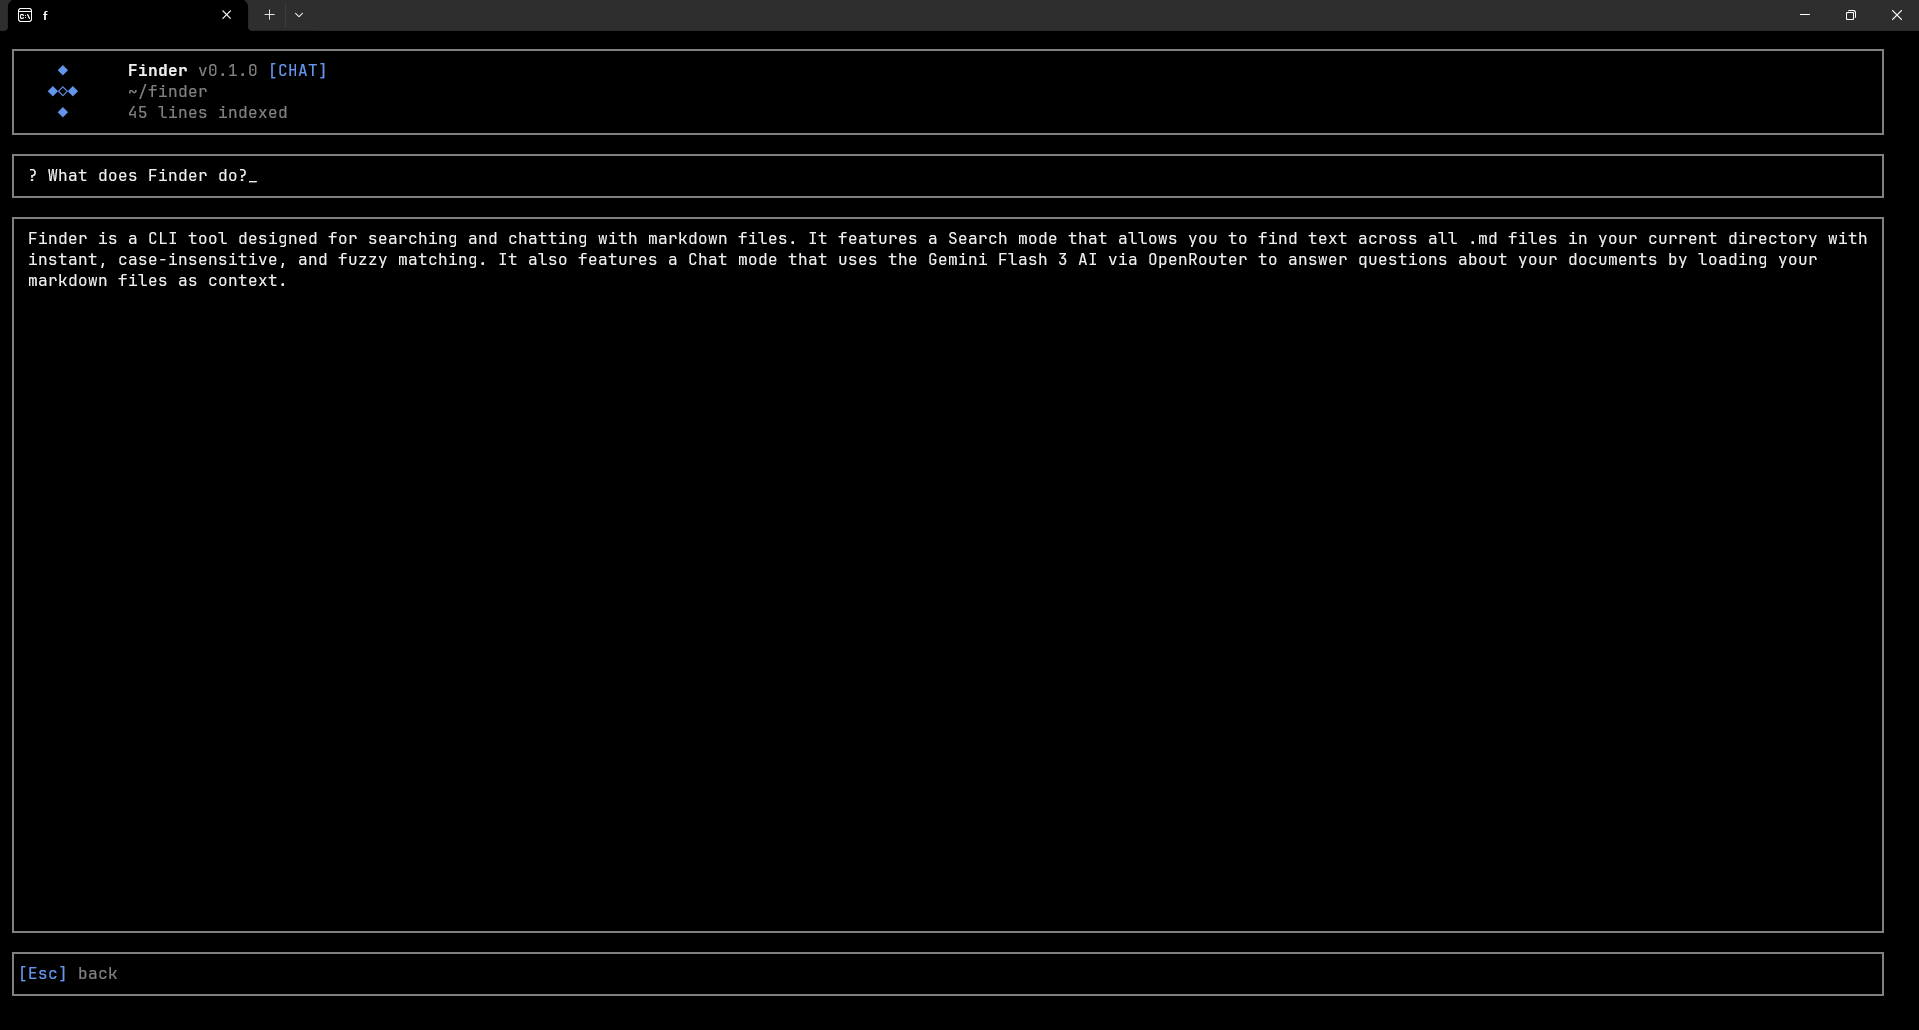
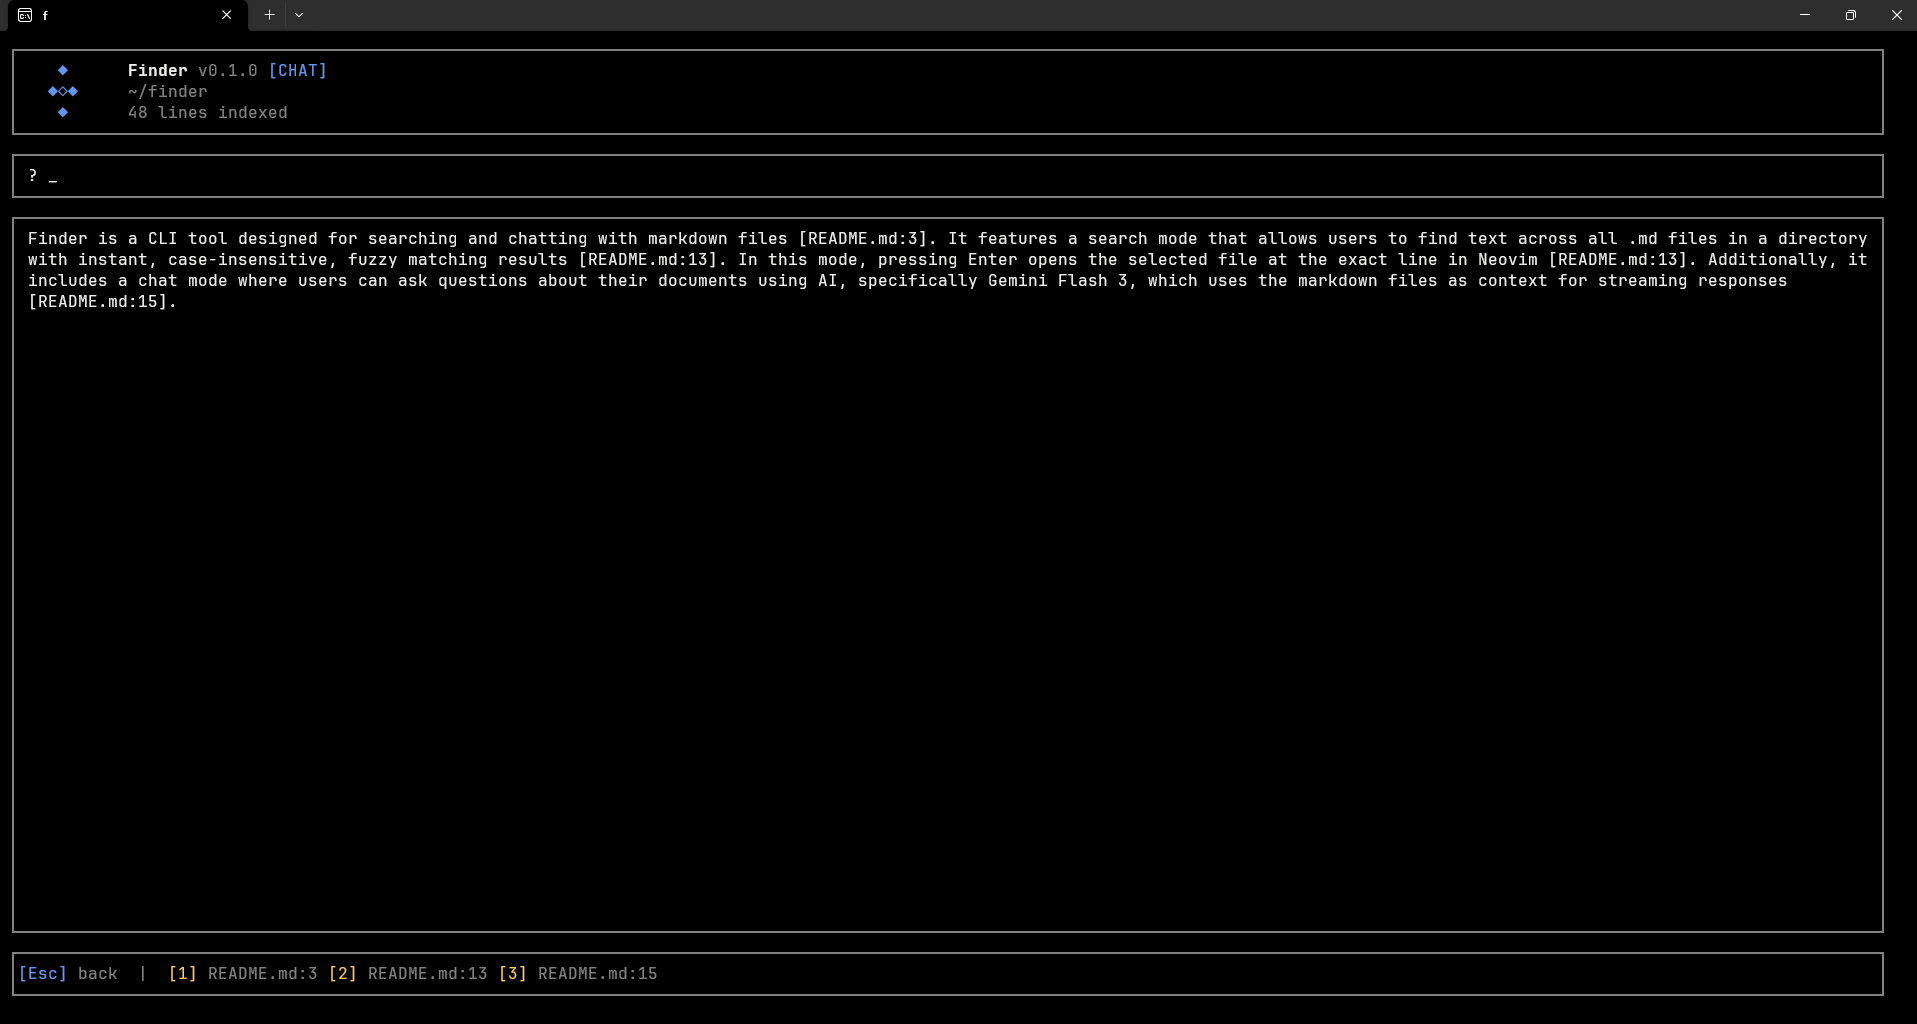
feat: add highlight, preview pane, and chat citations
- Highlight matched characters in search results (yellow)
- Split view with live preview pane showing file content
- Chat responses include citations [file:line]
- Press 1-9 to jump to cited location
- Updated screenshots and README

Changed region(s): [[0.0, 0.0625, 0.9849, 0.3125], [0.0, 0.875, 0.9849, 0.9688]]

diff --git a/src/ui.rs b/src/ui.rs
@@ -10,6 +10,7 @@ use ratatui::{
 
 const BLUE: Color = Color::Rgb(100, 149, 237);
 const DIM: Color = Color::Rgb(128, 128, 128);
+const HIGHLIGHT: Color = Color::Rgb(255, 200, 100);
 
 pub fn draw(frame: &mut Frame, app: &App) {
     match app.mode {
@@ -139,6 +140,17 @@ fn draw_chat_input(frame: &mut Frame, area: Rect, app: &App) {
 }
 
 fn draw_results(frame: &mut Frame, area: Rect, app: &App) {
+    let chunks = Layout::horizontal([
+        Constraint::Percentage(50),
+        Constraint::Percentage(50),
+    ])
+    .split(area);
+
+    draw_results_list(frame, chunks[0], app);
+    draw_preview(frame, chunks[1], app);
+}
+
+fn draw_results_list(frame: &mut Frame, area: Rect, app: &App) {
     let block = Block::default()
         .borders(Borders::ALL)
         .border_style(Style::default().fg(DIM))
@@ -180,22 +192,28 @@ fn draw_results(frame: &mut Frame, area: Rect, app: &App) {
 
             let content_style = Style::default().fg(DIM);
 
-            let truncated_content: String = entry.content.chars().take(60).collect();
-            let content_display = if entry.content.len() > 60 {
-                format!("{}...", truncated_content)
-            } else {
-                truncated_content
-            };
+            let max_content_width = area.width.saturating_sub(8) as usize;
+            let truncated_content: String = entry.content.chars().take(max_content_width).collect();
+            let truncated_len = truncated_content.chars().count();
+            let suffix = if entry.content.chars().count() > max_content_width { "..." } else { "" };
+
+            let truncated_indices: Vec<u32> = entry
+                .match_indices
+                .iter()
+                .filter(|&&i| (i as usize) < truncated_len)
+                .copied()
+                .collect();
+
+            let mut content_spans = vec![Span::raw("  \"")];
+            content_spans.extend(highlight_text(&truncated_content, &truncated_indices, content_style));
+            content_spans.push(Span::styled(format!("{}\"", suffix), content_style));
 
             let lines = vec![
                 Line::from(vec![
                     Span::styled(marker, marker_style),
                     Span::styled(format!(" {}:{}", entry.file, entry.line_num), file_style),
                 ]),
-                Line::from(vec![
-                    Span::raw("  "),
-                    Span::styled(format!("\"{}\"", content_display), content_style),
-                ]),
+                Line::from(content_spans),
             ];
 
             ListItem::new(lines)
@@ -204,6 +222,69 @@ fn draw_results(frame: &mut Frame, area: Rect, app: &App) {
 
     let list = List::new(items);
     frame.render_widget(list, inner);
+}
+
+fn draw_preview(frame: &mut Frame, area: Rect, app: &App) {
+    let block = Block::default()
+        .borders(Borders::ALL)
+        .border_style(Style::default().fg(DIM))
+        .padding(Padding::horizontal(1));
+
+    let inner = block.inner(area);
+    frame.render_widget(block, area);
+
+    let Some(entry) = app.results.get(app.selected) else {
+        let paragraph = Paragraph::new(Span::styled("No preview", Style::default().fg(DIM)));
+        frame.render_widget(paragraph, inner);
+        return;
+    };
+
+    let file_path = app.cwd.join(&entry.file);
+    let Ok(content) = std::fs::read_to_string(&file_path) else {
+        let paragraph = Paragraph::new(Span::styled("Cannot read file", Style::default().fg(DIM)));
+        frame.render_widget(paragraph, inner);
+        return;
+    };
+
+    let lines: Vec<&str> = content.lines().collect();
+    let target_line = entry.line_num.saturating_sub(1);
+    let visible_lines = inner.height as usize;
+    let half_visible = visible_lines / 2;
+
+    let start_line = target_line.saturating_sub(half_visible);
+    let end_line = (start_line + visible_lines).min(lines.len());
+
+    let preview_lines: Vec<Line> = lines[start_line..end_line]
+        .iter()
+        .enumerate()
+        .map(|(i, line)| {
+            let actual_line_num = start_line + i + 1;
+            let is_target = actual_line_num == entry.line_num;
+
+            let line_num_style = if is_target {
+                Style::default().fg(HIGHLIGHT)
+            } else {
+                Style::default().fg(DIM)
+            };
+
+            let content_style = if is_target {
+                Style::default().fg(Color::White)
+            } else {
+                Style::default().fg(DIM)
+            };
+
+            let max_width = inner.width.saturating_sub(6) as usize;
+            let truncated: String = line.chars().take(max_width).collect();
+
+            Line::from(vec![
+                Span::styled(format!("{:>4} ", actual_line_num), line_num_style),
+                Span::styled(truncated, content_style),
+            ])
+        })
+        .collect();
+
+    let paragraph = Paragraph::new(preview_lines);
+    frame.render_widget(paragraph, inner);
 }
 
 fn draw_chat_response(frame: &mut Frame, area: Rect, app: &App) {
@@ -257,6 +338,35 @@ fn draw_chat_response(frame: &mut Frame, area: Rect, app: &App) {
     frame.render_widget(paragraph, inner);
 }
 
+fn highlight_text(text: &str, indices: &[u32], base_style: Style) -> Vec<Span<'static>> {
+    let highlight_style = base_style.fg(HIGHLIGHT);
+    let chars: Vec<char> = text.chars().collect();
+    let mut spans = Vec::new();
+    let mut current = String::new();
+    let mut is_highlight = false;
+
+    for (i, &c) in chars.iter().enumerate() {
+        let should_highlight = indices.contains(&(i as u32));
+
+        if should_highlight != is_highlight {
+            if !current.is_empty() {
+                let style = if is_highlight { highlight_style } else { base_style };
+                spans.push(Span::styled(current.clone(), style));
+                current.clear();
+            }
+            is_highlight = should_highlight;
+        }
+        current.push(c);
+    }
+
+    if !current.is_empty() {
+        let style = if is_highlight { highlight_style } else { base_style };
+        spans.push(Span::styled(current, style));
+    }
+
+    spans
+}
+
 fn draw_chat_footer(frame: &mut Frame, area: Rect, app: &App) {
     let block = Block::default()
         .borders(Borders::ALL)
@@ -265,7 +375,7 @@ fn draw_chat_footer(frame: &mut Frame, area: Rect, app: &App) {
     let inner = block.inner(area);
     frame.render_widget(block, area);
 
-    let hints = if app.chat_streaming {
+    let mut hints: Vec<Span> = if app.chat_streaming {
         vec![
             Span::styled("streaming... ", Style::default().fg(BLUE)),
             Span::styled("[Ctrl+C]", Style::default().fg(DIM)),
@@ -277,6 +387,14 @@ fn draw_chat_footer(frame: &mut Frame, area: Rect, app: &App) {
             Span::styled(" back", Style::default().fg(DIM)),
         ]
     };
+
+    if !app.chat_streaming && !app.citations.is_empty() && app.chat_input.is_empty() {
+        hints.push(Span::styled("  |  ", Style::default().fg(DIM)));
+        for (i, citation) in app.citations.iter().take(9).enumerate() {
+            hints.push(Span::styled(format!("[{}]", i + 1), Style::default().fg(HIGHLIGHT)));
+            hints.push(Span::styled(format!(" {}:{} ", citation.file, citation.line), Style::default().fg(DIM)));
+        }
+    }
 
     let paragraph = Paragraph::new(Line::from(hints));
     frame.render_widget(paragraph, inner);

diff --git a/src/app.rs b/src/app.rs
@@ -8,6 +8,12 @@ pub enum Mode {
     Chat,
 }
 
+#[derive(Debug, Clone)]
+pub struct Citation {
+    pub file: String,
+    pub line: usize,
+}
+
 pub struct App {
     pub query: String,
     pub results: Vec<SearchEntry>,
@@ -25,6 +31,7 @@ pub struct App {
     pub chat_scroll: usize,
     pub md_context: String,
     pub api_key: Option<String>,
+    pub citations: Vec<Citation>,
     searcher: Searcher,
 }
 
@@ -52,7 +59,32 @@ impl App {
             chat_scroll: 0,
             md_context,
             api_key,
+            citations: Vec::new(),
             searcher,
+        }
+    }
+
+    pub fn parse_citations(&mut self) {
+        self.citations.clear();
+        let re = regex::Regex::new(r"\[([^\]]+):(\d+)\]").unwrap();
+        for cap in re.captures_iter(&self.chat_response) {
+            let file = cap.get(1).map(|m| m.as_str().to_string()).unwrap_or_default();
+            let line = cap.get(2).and_then(|m| m.as_str().parse().ok()).unwrap_or(1);
+            if !self.citations.iter().any(|c| c.file == file && c.line == line) {
+                self.citations.push(Citation { file, line });
+            }
+        }
+    }
+
+    pub fn jump_to_citation(&mut self, idx: usize) {
+        if let Some(citation) = self.citations.get(idx) {
+            self.selected_entry = Some(SearchEntry {
+                file: citation.file.clone(),
+                line_num: citation.line,
+                content: String::new(),
+                match_indices: Vec::new(),
+            });
+            self.should_quit = true;
         }
     }
 
@@ -182,6 +214,7 @@ impl App {
     pub fn append_response(&mut self, text: &str) {
         if text == "\n[DONE]" {
             self.chat_streaming = false;
+            self.parse_citations();
             self.chat_messages.push(ChatMessage {
                 role: "assistant".to_string(),
                 content: self.chat_response.clone(),
@@ -202,7 +235,16 @@ impl App {
         let mut messages = vec![ChatMessage {
             role: "system".to_string(),
             content: format!(
-                "You are a helpful assistant. Answer questions based on the following markdown documents. IMPORTANT: Respond in plain text only, no markdown formatting (no **, no ##, no bullets). Keep it clean and readable.\n\n{}",
+                r#"You are a helpful assistant. Answer questions based on the following markdown documents.
+
+RULES:
+1. Respond in plain text only, no markdown formatting (no **, no ##, no bullets)
+2. When you reference information from the documents, include citations using the format [file:line]
+3. Place citations inline where you use the information, like: "The installation requires cargo [README.md:20]"
+4. Each line in the documents is prefixed with [file:line] for reference
+
+DOCUMENTS:
+{}"#,
                 self.md_context
             ),
         }];

diff --git a/src/search.rs b/src/search.rs
@@ -1,5 +1,6 @@
 use ignore::WalkBuilder;
 use nucleo::{Config, Nucleo, Utf32String};
+use nucleo_matcher::{Matcher, pattern::Pattern, pattern::CaseMatching, pattern::Normalization};
 use std::path::Path;
 use std::sync::Arc;
 
@@ -8,6 +9,7 @@ pub struct SearchEntry {
     pub file: String,
     pub line_num: usize,
     pub content: String,
+    pub match_indices: Vec<u32>,
 }
 
 pub struct Searcher {
@@ -71,6 +73,7 @@ impl Searcher {
                     file: file_name.clone(),
                     line_num: line_idx + 1,
                     content: trimmed.to_string(),
+                    match_indices: Vec::new(),
                 });
             }
         }
@@ -91,11 +94,19 @@ impl Searcher {
 
         let snapshot = self.nucleo.snapshot();
         let mut results = Vec::new();
+        let mut matcher = Matcher::new(nucleo_matcher::Config::DEFAULT);
+        let pattern = Pattern::parse(query, CaseMatching::Ignore, Normalization::Smart);
 
         for item in snapshot.matched_items(..snapshot.matched_item_count().min(100)) {
             let idx = *item.data as usize;
             if idx < self.entries.len() {
-                results.push(self.entries[idx].clone());
+                let mut entry = self.entries[idx].clone();
+                let mut indices = Vec::new();
+                let mut buf = Vec::new();
+                let haystack = nucleo_matcher::Utf32Str::new(&entry.content, &mut buf);
+                pattern.indices(haystack, &mut matcher, &mut indices);
+                entry.match_indices = indices;
+                results.push(entry);
             }
         }
 

diff --git a/src/main.rs b/src/main.rs
@@ -122,7 +122,17 @@ async fn run<B: Backend>(terminal: &mut Terminal<B>, app: &mut App) -> io::Resul
                             KeyCode::Up => app.on_up(),
                             KeyCode::Down => app.on_down(visible_count),
                             KeyCode::Char(c) if !app.chat_streaming => {
-                                app.on_char(c);
+                                if c.is_ascii_digit()
+                                    && app.chat_input.is_empty()
+                                    && !app.citations.is_empty()
+                                {
+                                    let idx = c.to_digit(10).unwrap_or(0) as usize;
+                                    if idx > 0 && idx <= app.citations.len() {
+                                        app.jump_to_citation(idx - 1);
+                                    }
+                                } else {
+                                    app.on_char(c);
+                                }
                             }
                             _ => {}
                         },

diff --git a/src/chat.rs b/src/chat.rs
@@ -79,8 +79,14 @@ pub fn load_context(dir: &Path) -> String {
         }
         if path.extension().is_some_and(|e| e == "md") {
             if let Ok(content) = std::fs::read_to_string(path) {
-                let name = path.file_name().unwrap_or_default().to_string_lossy();
-                context.push_str(&format!("\n--- {} ---\n{}\n", name, content));
+                let name = path
+                    .strip_prefix(dir)
+                    .unwrap_or(path)
+                    .to_string_lossy();
+                context.push_str(&format!("\n--- {} ---\n", name));
+                for (i, line) in content.lines().enumerate() {
+                    context.push_str(&format!("[{}:{}] {}\n", name, i + 1, line));
+                }
             }
         }
     }

diff --git a/README.md b/README.md
@@ -10,9 +10,9 @@ A CLI tool for searching and chatting with your markdown files.
 
 ## What it does
 
-**Search** - Find text across all `.md` files in the current directory. Type and see results instantly. Case-insensitive, fuzzy matching, works with partial words. Press Enter to open the file in Neovim at the exact line.
+**Search** - Find text across all `.md` files in the current directory. Type and see results instantly. Case-insensitive, fuzzy matching, works with partial words. Matched characters are highlighted. A live preview pane shows the file content with the matched line centered. Press Enter to open in Neovim at the exact line.
 
-**Chat** - Ask questions about your documents using AI. All markdown files are loaded as context, and you can chat with Gemini Flash 3 with streaming responses.
+**Chat** - Ask questions about your documents using AI. All markdown files are loaded as context, and you can chat with Gemini Flash 3 with streaming responses. The AI includes citations to specific lines, and you can press `1-9` to jump directly to the cited location.
 
 ## Installation
 
